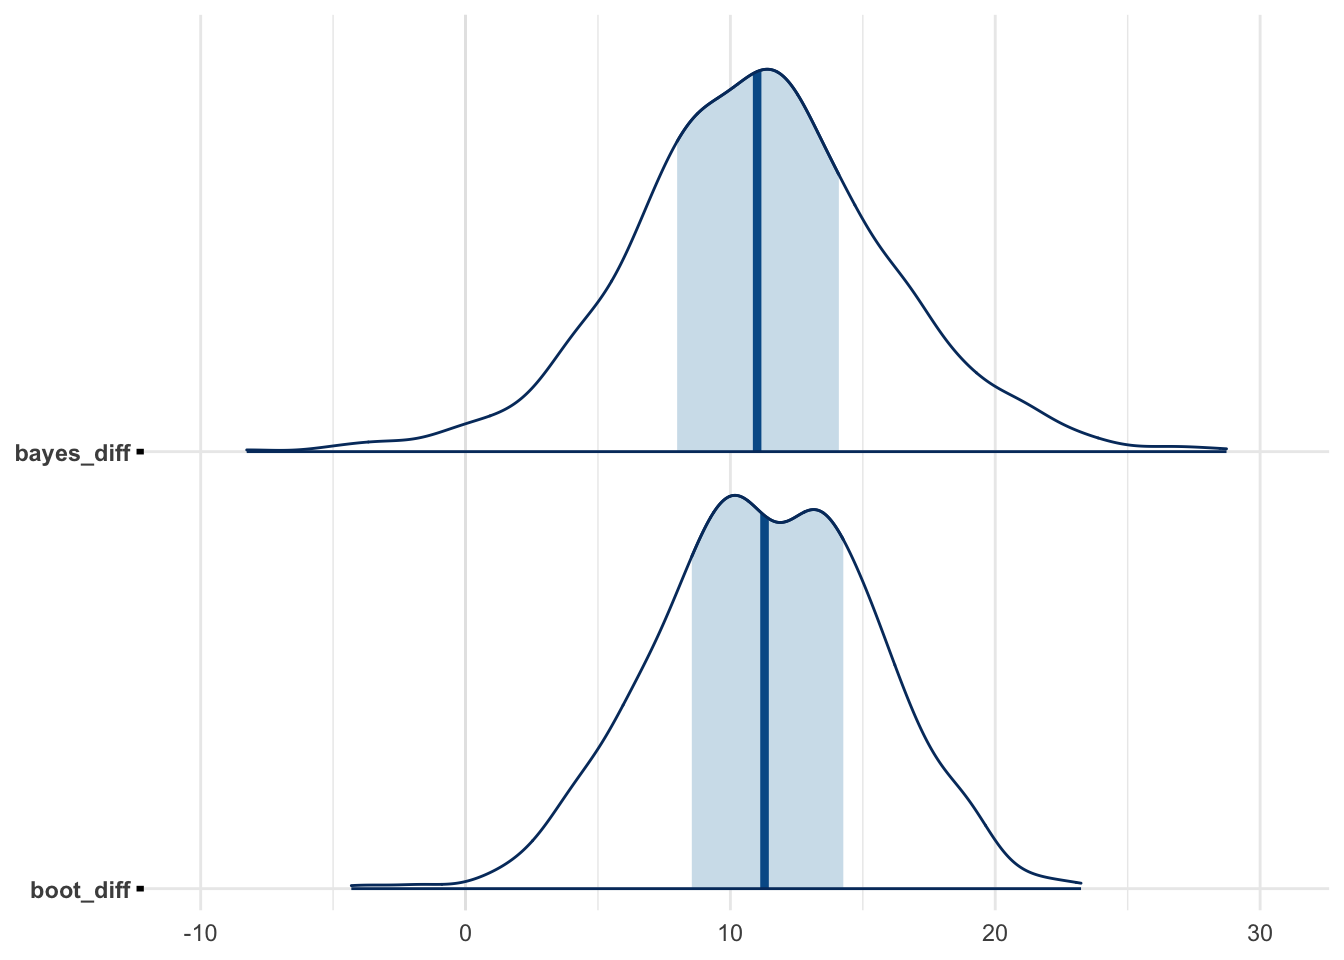
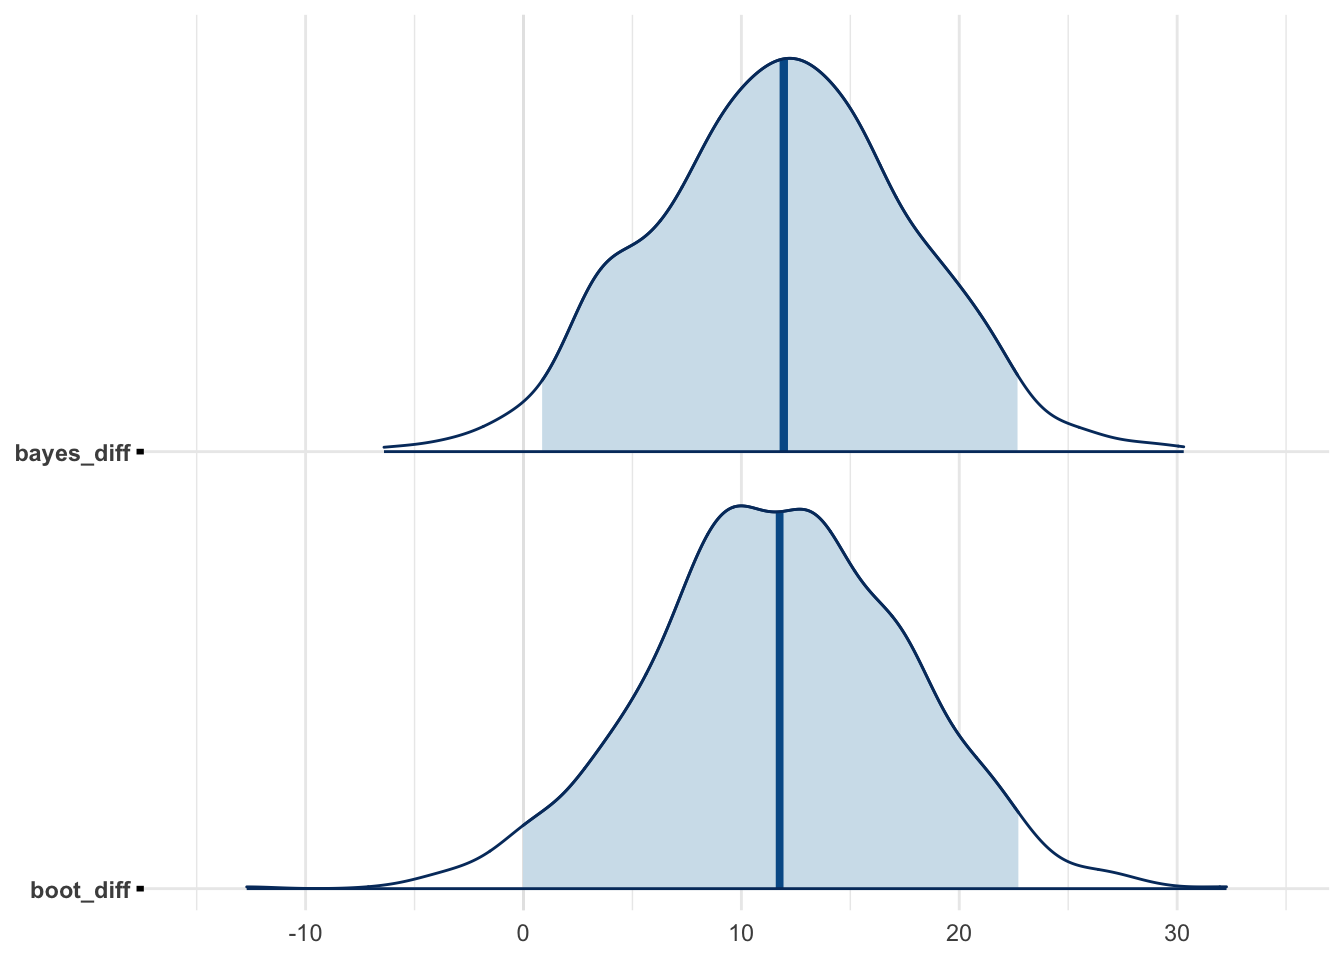
Minor cleanups

diff --git a/onetest.html b/onetest.html
@@ -160,7 +160,8 @@ window.Quarto = {
 <span id="cb1-6"><a href="#cb1-6" aria-hidden="true" tabindex="-1"></a><span class="fu">library</span>(bayesplot)</span>
 <span id="cb1-7"><a href="#cb1-7" aria-hidden="true" tabindex="-1"></a></span>
 <span id="cb1-8"><a href="#cb1-8" aria-hidden="true" tabindex="-1"></a><span class="fu">theme_set</span>(<span class="fu">theme_minimal</span>())</span>
-<span id="cb1-9"><a href="#cb1-9" aria-hidden="true" tabindex="-1"></a><span class="fu">set.seed</span>(<span class="dv">123</span>)</span></code><button title="Copy to Clipboard" class="code-copy-button"><i class="bi"></i></button></pre></div>
+<span id="cb1-9"><a href="#cb1-9" aria-hidden="true" tabindex="-1"></a></span>
+<span id="cb1-10"><a href="#cb1-10" aria-hidden="true" tabindex="-1"></a><span class="fu">set.seed</span>(<span class="dv">666</span>)</span></code><button title="Copy to Clipboard" class="code-copy-button"><i class="bi"></i></button></pre></div>
 </div>
 <div class="cell">
 <div class="sourceCode cell-code" id="cb2"><pre class="sourceCode r code-with-copy"><code class="sourceCode r"><span id="cb2-1"><a href="#cb2-1" aria-hidden="true" tabindex="-1"></a>N <span class="ot">&lt;-</span> <span class="dv">10</span></span>
@@ -188,83 +189,83 @@ window.Quarto = {
 <tbody>
 <tr class="odd">
 <td style="text-align: left;">A</td>
-<td style="text-align: right;">44.40</td>
+<td style="text-align: right;">57.53</td>
 </tr>
 <tr class="even">
 <td style="text-align: left;">A</td>
-<td style="text-align: right;">47.70</td>
+<td style="text-align: right;">70.14</td>
 </tr>
 <tr class="odd">
 <td style="text-align: left;">A</td>
-<td style="text-align: right;">65.59</td>
+<td style="text-align: right;">46.45</td>
 </tr>
 <tr class="even">
 <td style="text-align: left;">A</td>
-<td style="text-align: right;">50.71</td>
+<td style="text-align: right;">70.28</td>
 </tr>
 <tr class="odd">
 <td style="text-align: left;">A</td>
-<td style="text-align: right;">51.29</td>
+<td style="text-align: right;">27.83</td>
 </tr>
 <tr class="even">
 <td style="text-align: left;">A</td>
-<td style="text-align: right;">67.15</td>
+<td style="text-align: right;">57.58</td>
 </tr>
 <tr class="odd">
 <td style="text-align: left;">A</td>
-<td style="text-align: right;">54.61</td>
+<td style="text-align: right;">36.94</td>
 </tr>
 <tr class="even">
 <td style="text-align: left;">A</td>
-<td style="text-align: right;">37.35</td>
+<td style="text-align: right;">41.97</td>
 </tr>
 <tr class="odd">
 <td style="text-align: left;">A</td>
-<td style="text-align: right;">43.13</td>
+<td style="text-align: right;">32.08</td>
 </tr>
 <tr class="even">
 <td style="text-align: left;">A</td>
-<td style="text-align: right;">45.54</td>
+<td style="text-align: right;">49.58</td>
 </tr>
 <tr class="odd">
 <td style="text-align: left;">B</td>
-<td style="text-align: right;">72.24</td>
+<td style="text-align: right;">81.50</td>
 </tr>
 <tr class="even">
 <td style="text-align: left;">B</td>
-<td style="text-align: right;">63.60</td>
+<td style="text-align: right;">42.30</td>
 </tr>
 <tr class="odd">
 <td style="text-align: left;">B</td>
-<td style="text-align: right;">64.01</td>
+<td style="text-align: right;">68.65</td>
 </tr>
 <tr class="even">
 <td style="text-align: left;">B</td>
-<td style="text-align: right;">61.11</td>
+<td style="text-align: right;">42.80</td>
 </tr>
 <tr class="odd">
 <td style="text-align: left;">B</td>
-<td style="text-align: right;">54.44</td>
+<td style="text-align: right;">61.34</td>
 </tr>
 <tr class="even">
 <td style="text-align: left;">B</td>
-<td style="text-align: right;">77.87</td>
+<td style="text-align: right;">59.24</td>
 </tr>
 <tr class="odd">
 <td style="text-align: left;">B</td>
-<td style="text-align: right;">64.98</td>
+<td style="text-align: right;">68.58</td>
 </tr>
 <tr class="even">
 <td style="text-align: left;">B</td>
-<td style="text-align: right;">40.33</td>
+<td style="text-align: right;">63.45</td>
 </tr>
 <tr class="odd">
 <td style="text-align: left;">B</td>
-<td style="text-align: right;">67.01</td>
+<td style="text-align: right;">54.18</td>
 </tr>
 <tr class="even">
 <td style="text-align: left;">B</td>
-<td style="text-align: right;">55.27</td>
+<td style="text-align: right;">67.86</td>
 </tr>
 </tbody>
 </table>
@@ -277,14 +278,14 @@ window.Quarto = {
 <span id="cb3-3"><a href="#cb3-3" aria-hidden="true" tabindex="-1"></a></span>
 <span id="cb3-4"><a href="#cb3-4" aria-hidden="true" tabindex="-1"></a>obs_diff</span></code><button title="Copy to Clipboard" class="code-copy-button"><i class="bi"></i></button></pre></div>
 <div class="cell-output cell-output-stdout">
-<pre><code>[1] 11.34</code></pre>
+<pre><code>[1] 11.95</code></pre>
 </div>
 </div>
 <div class="cell">
 <div class="sourceCode cell-code" id="cb5"><pre class="sourceCode r code-with-copy"><code class="sourceCode r"><span id="cb5-1"><a href="#cb5-1" aria-hidden="true" tabindex="-1"></a><span class="co"># Show t-test p-value for reference</span></span>
 <span id="cb5-2"><a href="#cb5-2" aria-hidden="true" tabindex="-1"></a><span class="fu">t.test</span>(Y <span class="sc">~</span> X, <span class="at">data =</span> d, <span class="at">var.equal =</span> <span class="cn">TRUE</span>)<span class="sc">$</span>p.value</span></code><button title="Copy to Clipboard" class="code-copy-button"><i class="bi"></i></button></pre></div>
 <div class="cell-output cell-output-stdout">
-<pre><code>[1] 0.02036</code></pre>
+<pre><code>[1] 0.06409</code></pre>
 </div>
 </div>
 <div class="cell">
@@ -305,11 +306,11 @@ window.Quarto = {
 <div class="sourceCode cell-code" id="cb9"><pre class="sourceCode r code-with-copy"><code class="sourceCode r"><span id="cb9-1"><a href="#cb9-1" aria-hidden="true" tabindex="-1"></a><span class="co"># Calculate p-value as the proportion of simulated diffs as extreme as observed</span></span>
 <span id="cb9-2"><a href="#cb9-2" aria-hidden="true" tabindex="-1"></a>parm <span class="sc">|&gt;</span> <span class="fu">summarize</span>(<span class="at">p_val =</span> <span class="fu">mean</span>(<span class="fu">abs</span>(diff) <span class="sc">&gt;=</span> <span class="fu">abs</span>(obs_diff))) <span class="sc">|&gt;</span> <span class="fu">pull</span>(p_val)</span></code><button title="Copy to Clipboard" class="code-copy-button"><i class="bi"></i></button></pre></div>
 <div class="cell-output cell-output-stdout">
-<pre><code>[1] 0.024</code></pre>
+<pre><code>[1] 0.062</code></pre>
 </div>
 </div>
 <div class="cell">
-<div class="sourceCode cell-code" id="cb11"><pre class="sourceCode r code-with-copy"><code class="sourceCode r"><span id="cb11-1"><a href="#cb11-1" aria-hidden="true" tabindex="-1"></a><span class="fu">gf_density</span>( <span class="sc">~</span> diff, <span class="at">data =</span> parm) <span class="sc">|&gt;</span></span>
+<div class="sourceCode cell-code" id="cb11"><pre class="sourceCode r code-with-copy"><code class="sourceCode r"><span id="cb11-1"><a href="#cb11-1" aria-hidden="true" tabindex="-1"></a><span class="fu">mcmc_areas</span>(parm, <span class="at">prob =</span> <span class="fl">0.95</span>) <span class="sc">|&gt;</span></span>
 <span id="cb11-2"><a href="#cb11-2" aria-hidden="true" tabindex="-1"></a>  <span class="fu">gf_vline</span>(<span class="at">xintercept =</span> <span class="sc">~</span> obs_diff, <span class="at">color =</span> <span class="st">"red"</span>) <span class="sc">|&gt;</span></span>
 <span id="cb11-3"><a href="#cb11-3" aria-hidden="true" tabindex="-1"></a>  <span class="fu">gf_vline</span>(<span class="at">xintercept =</span> <span class="sc">~</span> <span class="sc">-</span>obs_diff, <span class="at">color =</span> <span class="st">"red"</span>)</span></code><button title="Copy to Clipboard" class="code-copy-button"><i class="bi"></i></button></pre></div>
 <div class="cell-output-display">
@@ -335,11 +336,11 @@ window.Quarto = {
 <div class="sourceCode cell-code" id="cb13"><pre class="sourceCode r code-with-copy"><code class="sourceCode r"><span id="cb13-1"><a href="#cb13-1" aria-hidden="true" tabindex="-1"></a><span class="co"># Compute two-sided p-value</span></span>
 <span id="cb13-2"><a href="#cb13-2" aria-hidden="true" tabindex="-1"></a>perm <span class="sc">|&gt;</span> <span class="fu">summarize</span>(<span class="at">p_val =</span> <span class="fu">mean</span>(<span class="fu">abs</span>(diff) <span class="sc">&gt;=</span> <span class="fu">abs</span>(obs_diff))) <span class="sc">|&gt;</span> <span class="fu">pull</span>(p_val)</span></code><button title="Copy to Clipboard" class="code-copy-button"><i class="bi"></i></button></pre></div>
 <div class="cell-output cell-output-stdout">
-<pre><code>[1] 0.028</code></pre>
+<pre><code>[1] 0.067</code></pre>
 </div>
 </div>
 <div class="cell">
-<div class="sourceCode cell-code" id="cb15"><pre class="sourceCode r code-with-copy"><code class="sourceCode r"><span id="cb15-1"><a href="#cb15-1" aria-hidden="true" tabindex="-1"></a><span class="fu">gf_density</span>( <span class="sc">~</span> diff, <span class="at">data =</span> perm) <span class="sc">|&gt;</span></span>
+<div class="sourceCode cell-code" id="cb15"><pre class="sourceCode r code-with-copy"><code class="sourceCode r"><span id="cb15-1"><a href="#cb15-1" aria-hidden="true" tabindex="-1"></a><span class="fu">mcmc_areas</span>(perm, <span class="at">prob =</span> <span class="fl">0.95</span>) <span class="sc">|&gt;</span></span>
 <span id="cb15-2"><a href="#cb15-2" aria-hidden="true" tabindex="-1"></a>  <span class="fu">gf_vline</span>(<span class="at">xintercept =</span> <span class="sc">~</span> obs_diff, <span class="at">color =</span> <span class="st">"red"</span>) <span class="sc">|&gt;</span></span>
 <span id="cb15-3"><a href="#cb15-3" aria-hidden="true" tabindex="-1"></a>  <span class="fu">gf_vline</span>(<span class="at">xintercept =</span> <span class="sc">~</span> <span class="sc">-</span>obs_diff, <span class="at">color =</span> <span class="st">"red"</span>)</span></code><button title="Copy to Clipboard" class="code-copy-button"><i class="bi"></i></button></pre></div>
 <div class="cell-output-display">
@@ -370,11 +371,11 @@ window.Quarto = {
 <div class="sourceCode cell-code" id="cb17"><pre class="sourceCode r code-with-copy"><code class="sourceCode r"><span id="cb17-1"><a href="#cb17-1" aria-hidden="true" tabindex="-1"></a><span class="co"># Two-sided permutation p-value</span></span>
 <span id="cb17-2"><a href="#cb17-2" aria-hidden="true" tabindex="-1"></a>perm_t <span class="sc">|&gt;</span> <span class="fu">summarize</span>(<span class="at">p_val =</span> <span class="fu">mean</span>(<span class="fu">abs</span>(t) <span class="sc">&gt;=</span> <span class="fu">abs</span>(obs_t))) <span class="sc">|&gt;</span> <span class="fu">pull</span>(p_val)</span></code><button title="Copy to Clipboard" class="code-copy-button"><i class="bi"></i></button></pre></div>
 <div class="cell-output cell-output-stdout">
-<pre><code>[1] 0.018</code></pre>
+<pre><code>[1] 0.071</code></pre>
 </div>
 </div>
 <div class="cell">
-<div class="sourceCode cell-code" id="cb19"><pre class="sourceCode r code-with-copy"><code class="sourceCode r"><span id="cb19-1"><a href="#cb19-1" aria-hidden="true" tabindex="-1"></a><span class="fu">gf_density</span>( <span class="sc">~</span> t, <span class="at">data =</span> perm_t) <span class="sc">|&gt;</span></span>
+<div class="sourceCode cell-code" id="cb19"><pre class="sourceCode r code-with-copy"><code class="sourceCode r"><span id="cb19-1"><a href="#cb19-1" aria-hidden="true" tabindex="-1"></a><span class="fu">mcmc_areas</span>(perm_t, <span class="at">prob =</span> <span class="fl">0.95</span>) <span class="sc">|&gt;</span></span>
 <span id="cb19-2"><a href="#cb19-2" aria-hidden="true" tabindex="-1"></a>  <span class="fu">gf_vline</span>(<span class="at">xintercept =</span> <span class="sc">~</span> obs_t, <span class="at">color =</span> <span class="st">"red"</span>) <span class="sc">|&gt;</span></span>
 <span id="cb19-3"><a href="#cb19-3" aria-hidden="true" tabindex="-1"></a>  <span class="fu">gf_vline</span>(<span class="at">xintercept =</span> <span class="sc">~</span> <span class="sc">-</span>obs_t, <span class="at">color =</span> <span class="st">"red"</span>)</span></code><button title="Copy to Clipboard" class="code-copy-button"><i class="bi"></i></button></pre></div>
 <div class="cell-output-display">
@@ -508,7 +509,7 @@ window.Quarto = {
 <span id="cb21-7"><a href="#cb21-7" aria-hidden="true" tabindex="-1"></a>    <span class="at">prior_intercept =</span> <span class="cn">NULL</span>,</span>
 <span id="cb21-8"><a href="#cb21-8" aria-hidden="true" tabindex="-1"></a>    <span class="at">chains =</span> <span class="dv">2</span>,</span>
 <span id="cb21-9"><a href="#cb21-9" aria-hidden="true" tabindex="-1"></a>    <span class="at">iter =</span> M,</span>
-<span id="cb21-10"><a href="#cb21-10" aria-hidden="true" tabindex="-1"></a>    <span class="at">seed =</span> <span class="dv">123</span></span>
+<span id="cb21-10"><a href="#cb21-10" aria-hidden="true" tabindex="-1"></a>    <span class="at">seed =</span> <span class="dv">666</span></span>
 <span id="cb21-11"><a href="#cb21-11" aria-hidden="true" tabindex="-1"></a>  ) <span class="sc">|&gt;</span></span>
 <span id="cb21-12"><a href="#cb21-12" aria-hidden="true" tabindex="-1"></a>  <span class="fu">as_draws_df</span>() <span class="sc">|&gt;</span></span>
 <span id="cb21-13"><a href="#cb21-13" aria-hidden="true" tabindex="-1"></a>  <span class="fu">select</span>(XB) <span class="sc">|&gt;</span></span>
@@ -550,33 +551,33 @@ window.Quarto = {
 <tbody>
 <tr class="odd">
 <td style="text-align: left;">bayes_diff</td>
-<td style="text-align: right;">11.04</td>
-<td style="text-align: right;">11.01</td>
-<td style="text-align: right;">4.904</td>
-<td style="text-align: right;">4.560</td>
-<td style="text-align: right;">3.335</td>
-<td style="text-align: right;">19.11</td>
-<td style="text-align: right;">0.9998</td>
-<td style="text-align: right;">785.6</td>
-<td style="text-align: right;">447.9</td>
+<td style="text-align: right;">11.83</td>
+<td style="text-align: right;">11.94</td>
+<td style="text-align: right;">5.857</td>
+<td style="text-align: right;">5.787</td>
+<td style="text-align: right;">2.733</td>
+<td style="text-align: right;">21.42</td>
+<td style="text-align: right;">1.0014</td>
+<td style="text-align: right;">946.0</td>
+<td style="text-align: right;">807.9</td>
 </tr>
 <tr class="even">
 <td style="text-align: left;">boot_diff</td>
-<td style="text-align: right;">11.31</td>
-<td style="text-align: right;">11.29</td>
-<td style="text-align: right;">4.126</td>
-<td style="text-align: right;">4.239</td>
-<td style="text-align: right;">4.424</td>
-<td style="text-align: right;">18.05</td>
-<td style="text-align: right;">0.9994</td>
-<td style="text-align: right;">952.7</td>
-<td style="text-align: right;">900.6</td>
+<td style="text-align: right;">11.74</td>
+<td style="text-align: right;">11.76</td>
+<td style="text-align: right;">5.915</td>
+<td style="text-align: right;">5.763</td>
+<td style="text-align: right;">1.873</td>
+<td style="text-align: right;">21.31</td>
+<td style="text-align: right;">0.9991</td>
+<td style="text-align: right;">893.3</td>
+<td style="text-align: right;">892.4</td>
 </tr>
 </tbody>
 </table>
 </div>
 </div>
-<div class="sourceCode cell-code" id="cb23"><pre class="sourceCode r code-with-copy"><code class="sourceCode r"><span id="cb23-1"><a href="#cb23-1" aria-hidden="true" tabindex="-1"></a><span class="fu">mcmc_areas</span>(df)</span></code><button title="Copy to Clipboard" class="code-copy-button"><i class="bi"></i></button></pre></div>
+<div class="sourceCode cell-code" id="cb23"><pre class="sourceCode r code-with-copy"><code class="sourceCode r"><span id="cb23-1"><a href="#cb23-1" aria-hidden="true" tabindex="-1"></a><span class="fu">mcmc_areas</span>(df, <span class="at">prob =</span> <span class="fl">0.95</span>)</span></code><button title="Copy to Clipboard" class="code-copy-button"><i class="bi"></i></button></pre></div>
 <div class="cell-output-display">
 <div>
 <figure class="figure">
